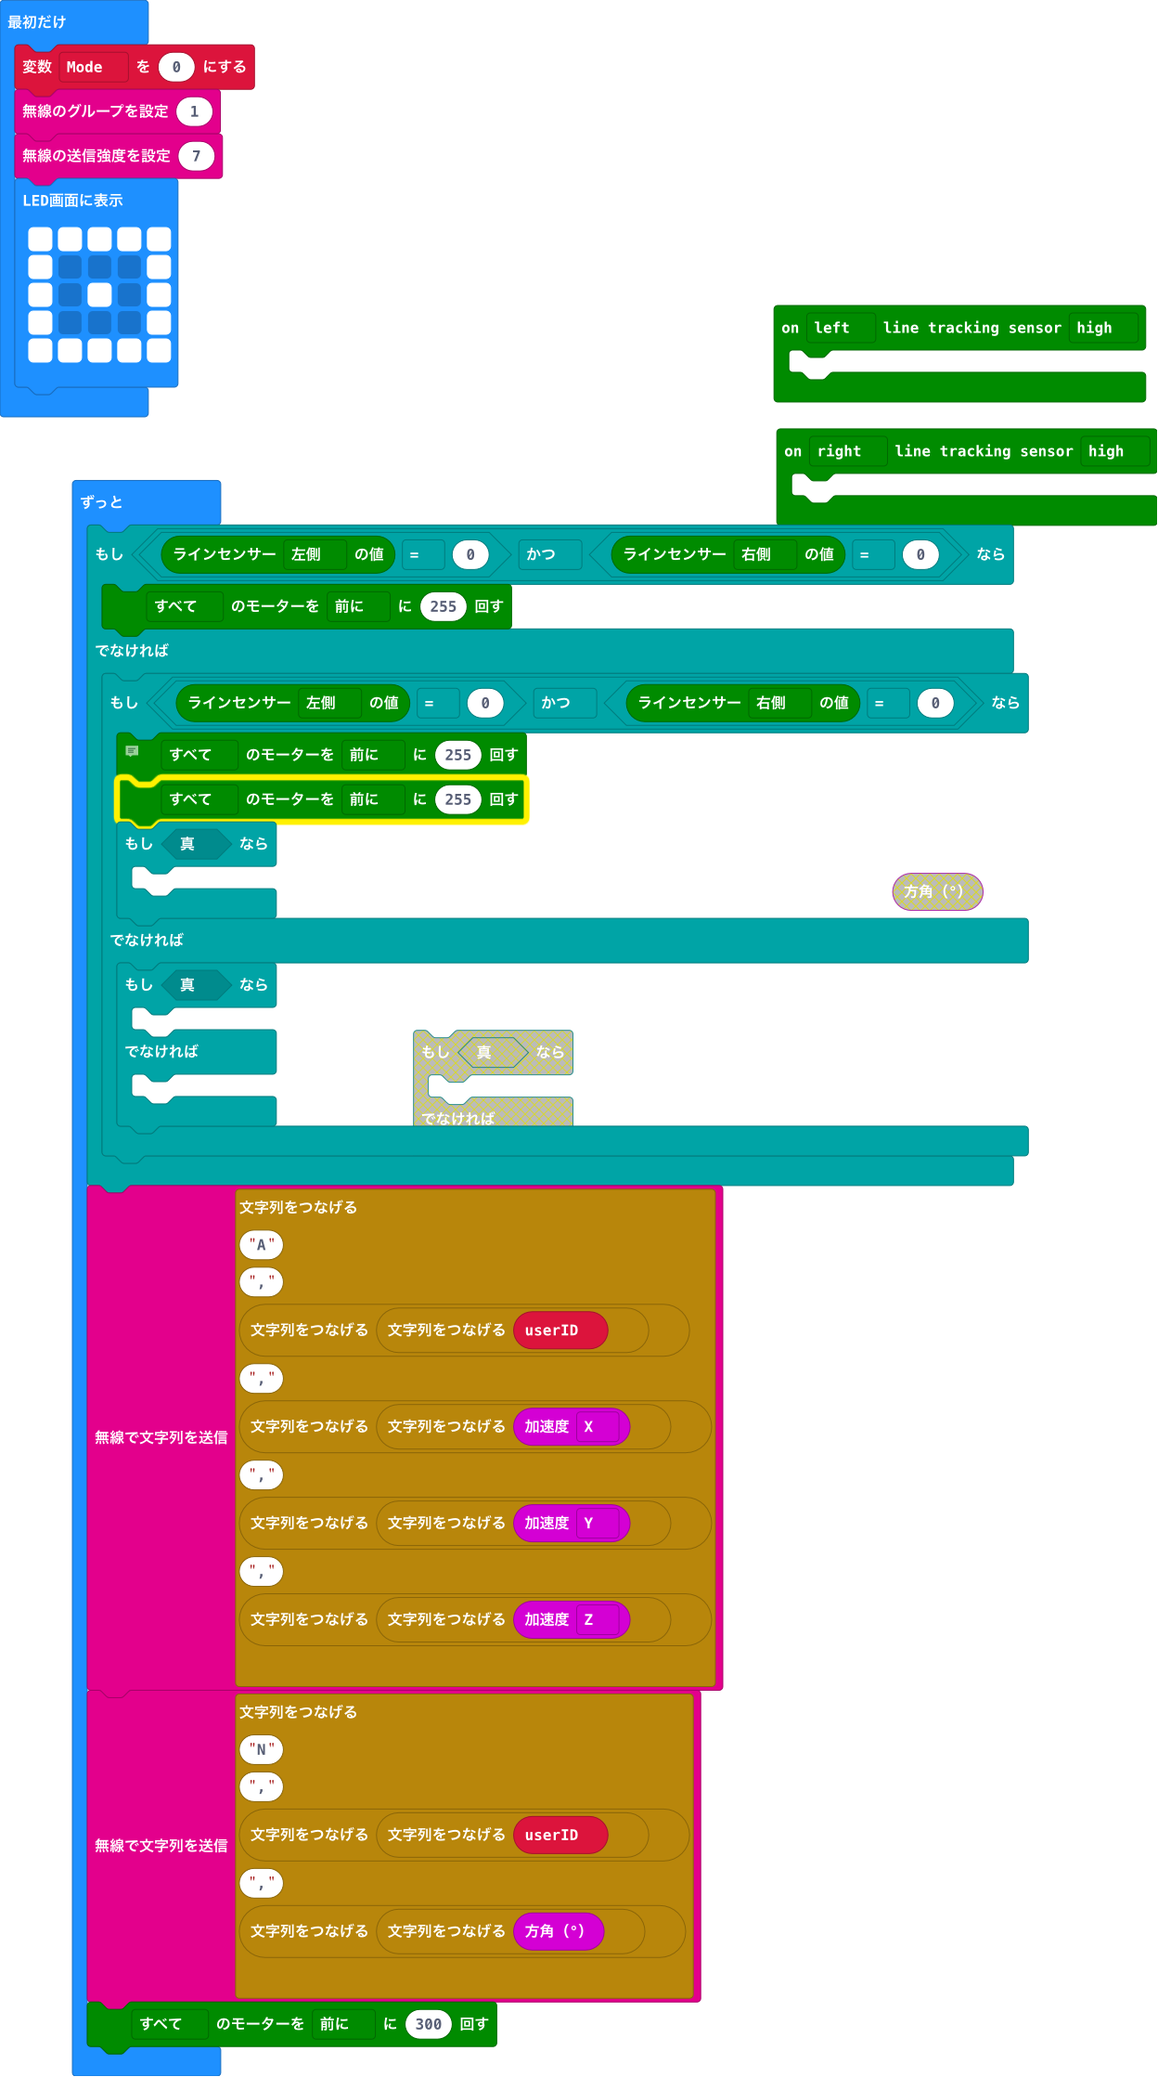
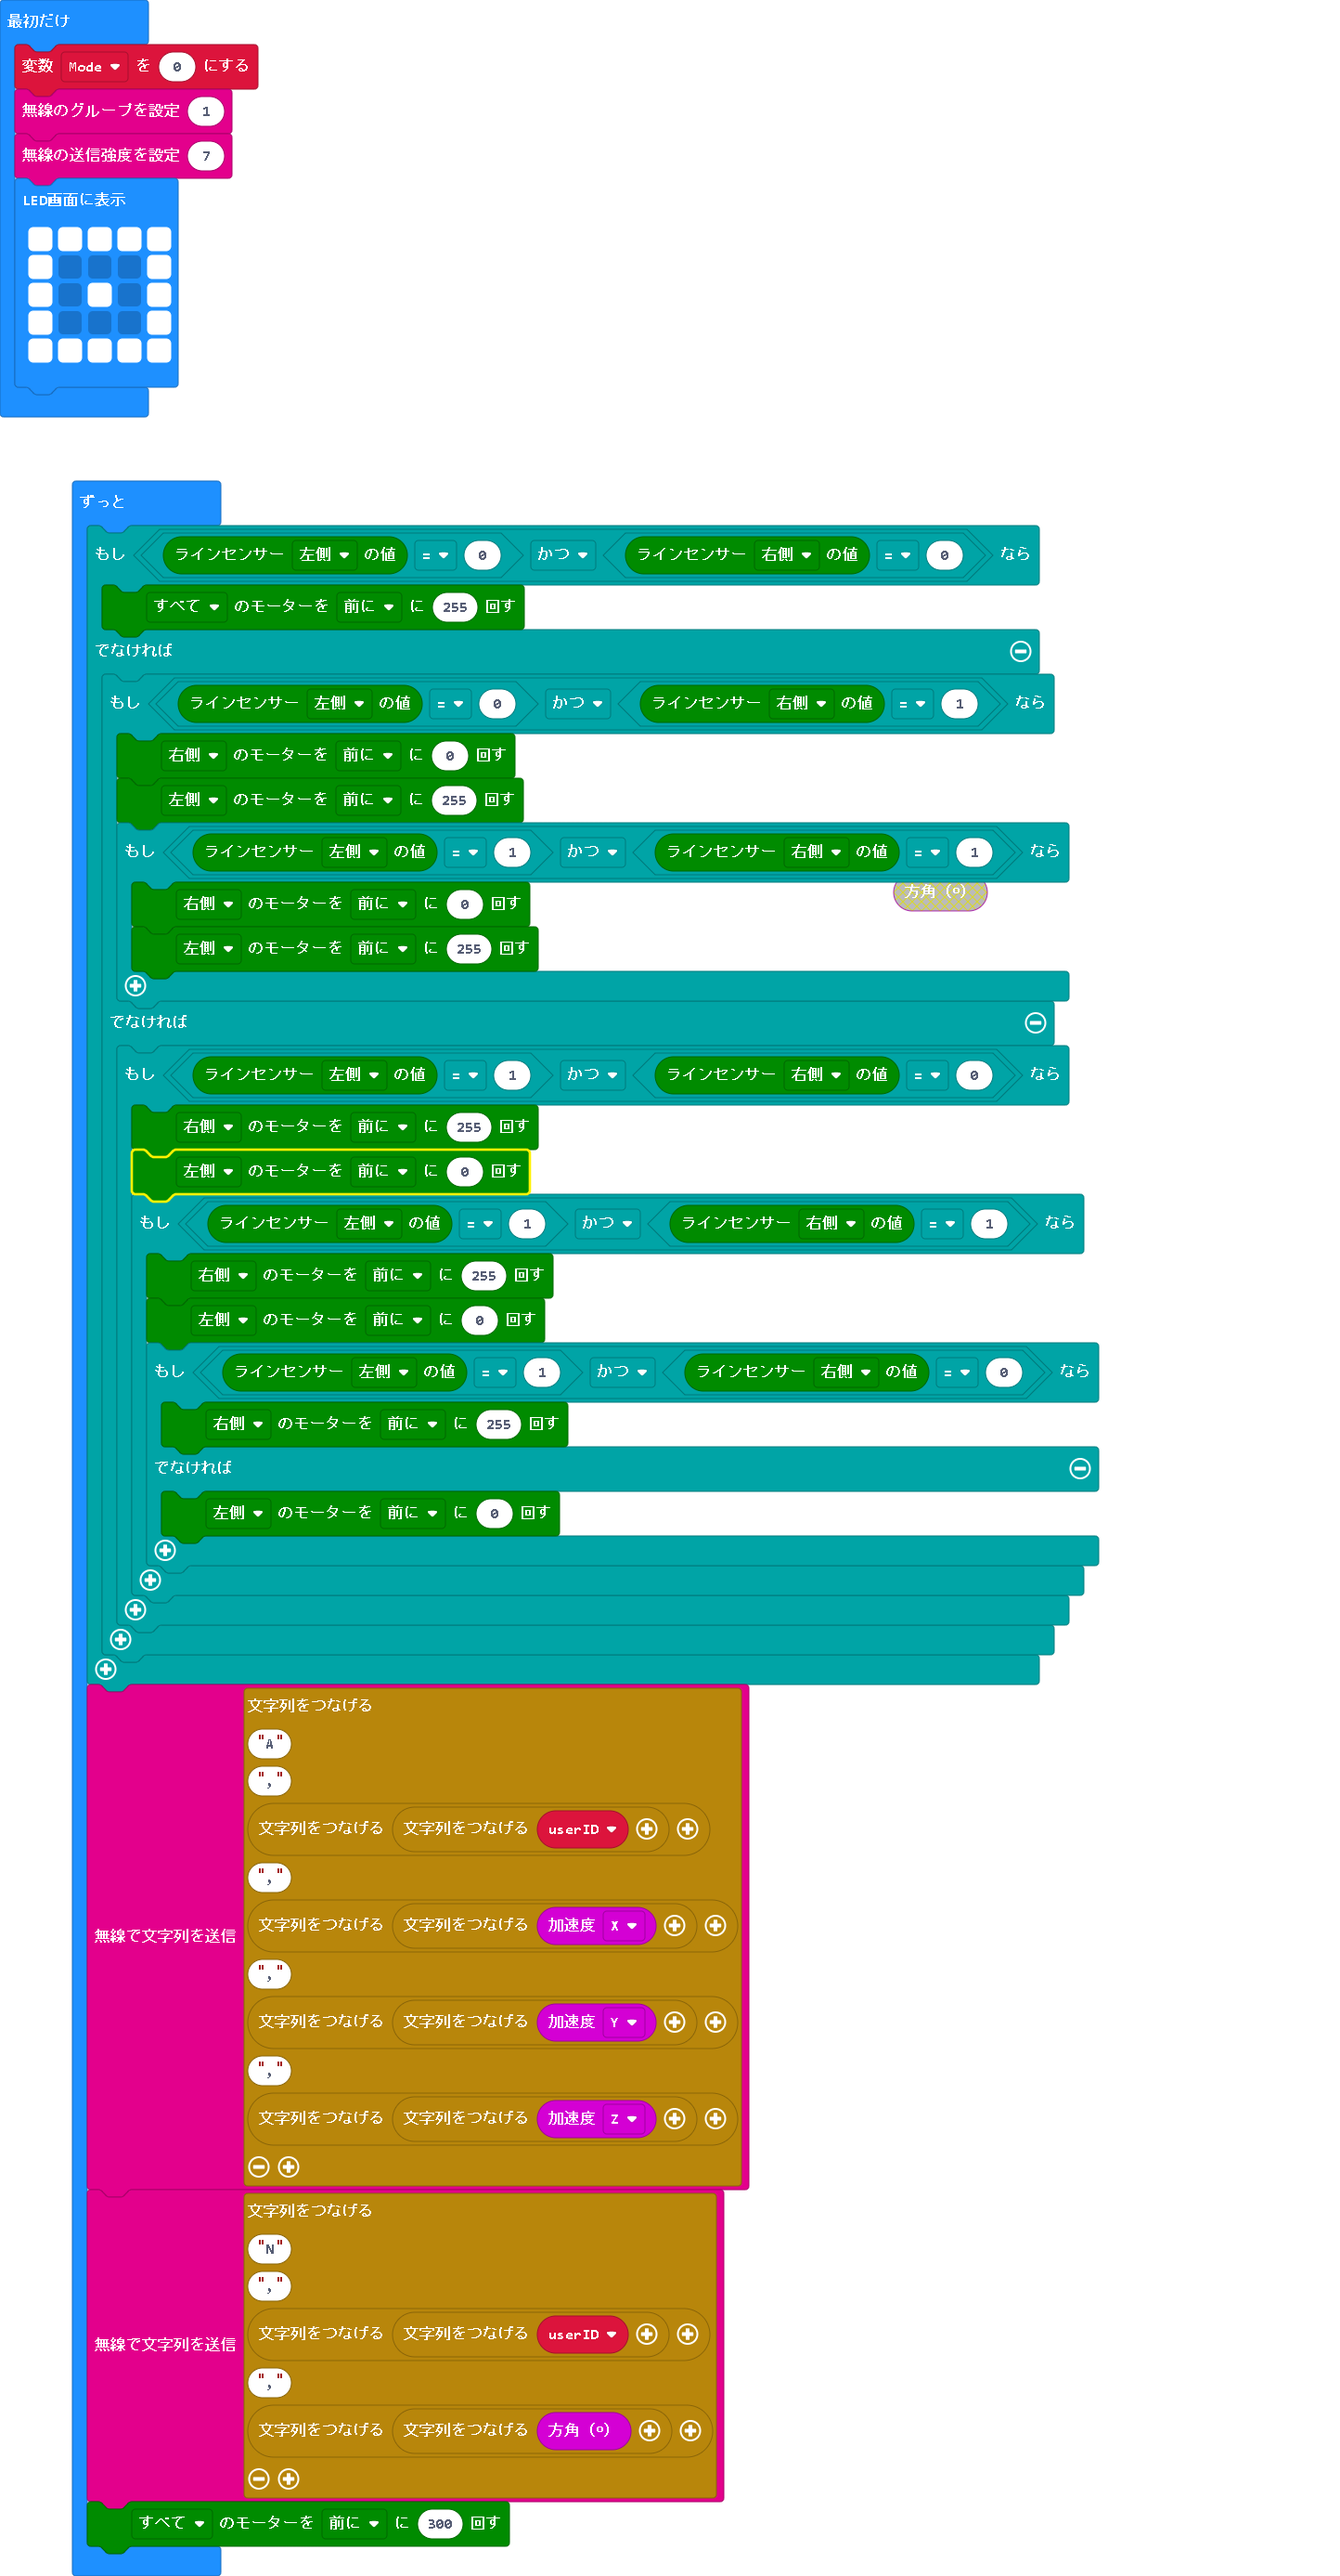
いったん作成

diff --git a/main.ts b/main.ts
@@ -1,9 +1,3 @@
-maqueen.ltEvent(maqueen.Patrol1.PatrolRight, maqueen.Voltage.High, function () {
-	
-})
-maqueen.ltEvent(maqueen.Patrol1.PatrolLeft, maqueen.Voltage.High, function () {
-	
-})
 let Mode = 0
 radio.setGroup(1)
 radio.setTransmitPower(7)
@@ -19,18 +13,26 @@ basic.forever(function () {
     if (maqueen.readPatrol(maqueen.Patrol.PatrolLeft) == 0 && maqueen.readPatrol(maqueen.Patrol.PatrolRight) == 0) {
         maqueen.motorRun(maqueen.Motors.All, maqueen.Dir.CW, 255)
     } else {
-        if (maqueen.readPatrol(maqueen.Patrol.PatrolLeft) == 0 && maqueen.readPatrol(maqueen.Patrol.PatrolRight) == 0) {
-            // 
-            maqueen.motorRun(maqueen.Motors.All, maqueen.Dir.CW, 255)
-            maqueen.motorRun(maqueen.Motors.All, maqueen.Dir.CW, 255)
-            if (true) {
-            	
+        if (maqueen.readPatrol(maqueen.Patrol.PatrolLeft) == 0 && maqueen.readPatrol(maqueen.Patrol.PatrolRight) == 1) {
+            maqueen.motorRun(maqueen.Motors.M2, maqueen.Dir.CW, 0)
+            maqueen.motorRun(maqueen.Motors.M1, maqueen.Dir.CW, 255)
+            if (maqueen.readPatrol(maqueen.Patrol.PatrolLeft) == 1 && maqueen.readPatrol(maqueen.Patrol.PatrolRight) == 1) {
+                maqueen.motorRun(maqueen.Motors.M2, maqueen.Dir.CW, 0)
+                maqueen.motorRun(maqueen.Motors.M1, maqueen.Dir.CW, 255)
             }
         } else {
-            if (true) {
-            	
-            } else {
-            	
+            if (maqueen.readPatrol(maqueen.Patrol.PatrolLeft) == 1 && maqueen.readPatrol(maqueen.Patrol.PatrolRight) == 0) {
+                maqueen.motorRun(maqueen.Motors.M2, maqueen.Dir.CW, 255)
+                maqueen.motorRun(maqueen.Motors.M1, maqueen.Dir.CW, 0)
+                if (maqueen.readPatrol(maqueen.Patrol.PatrolLeft) == 1 && maqueen.readPatrol(maqueen.Patrol.PatrolRight) == 1) {
+                    maqueen.motorRun(maqueen.Motors.M2, maqueen.Dir.CW, 255)
+                    maqueen.motorRun(maqueen.Motors.M1, maqueen.Dir.CW, 0)
+                    if (maqueen.readPatrol(maqueen.Patrol.PatrolLeft) == 1 && maqueen.readPatrol(maqueen.Patrol.PatrolRight) == 0) {
+                        maqueen.motorRun(maqueen.Motors.M2, maqueen.Dir.CW, 255)
+                    } else {
+                        maqueen.motorRun(maqueen.Motors.M1, maqueen.Dir.CW, 0)
+                    }
+                }
             }
         }
     }
